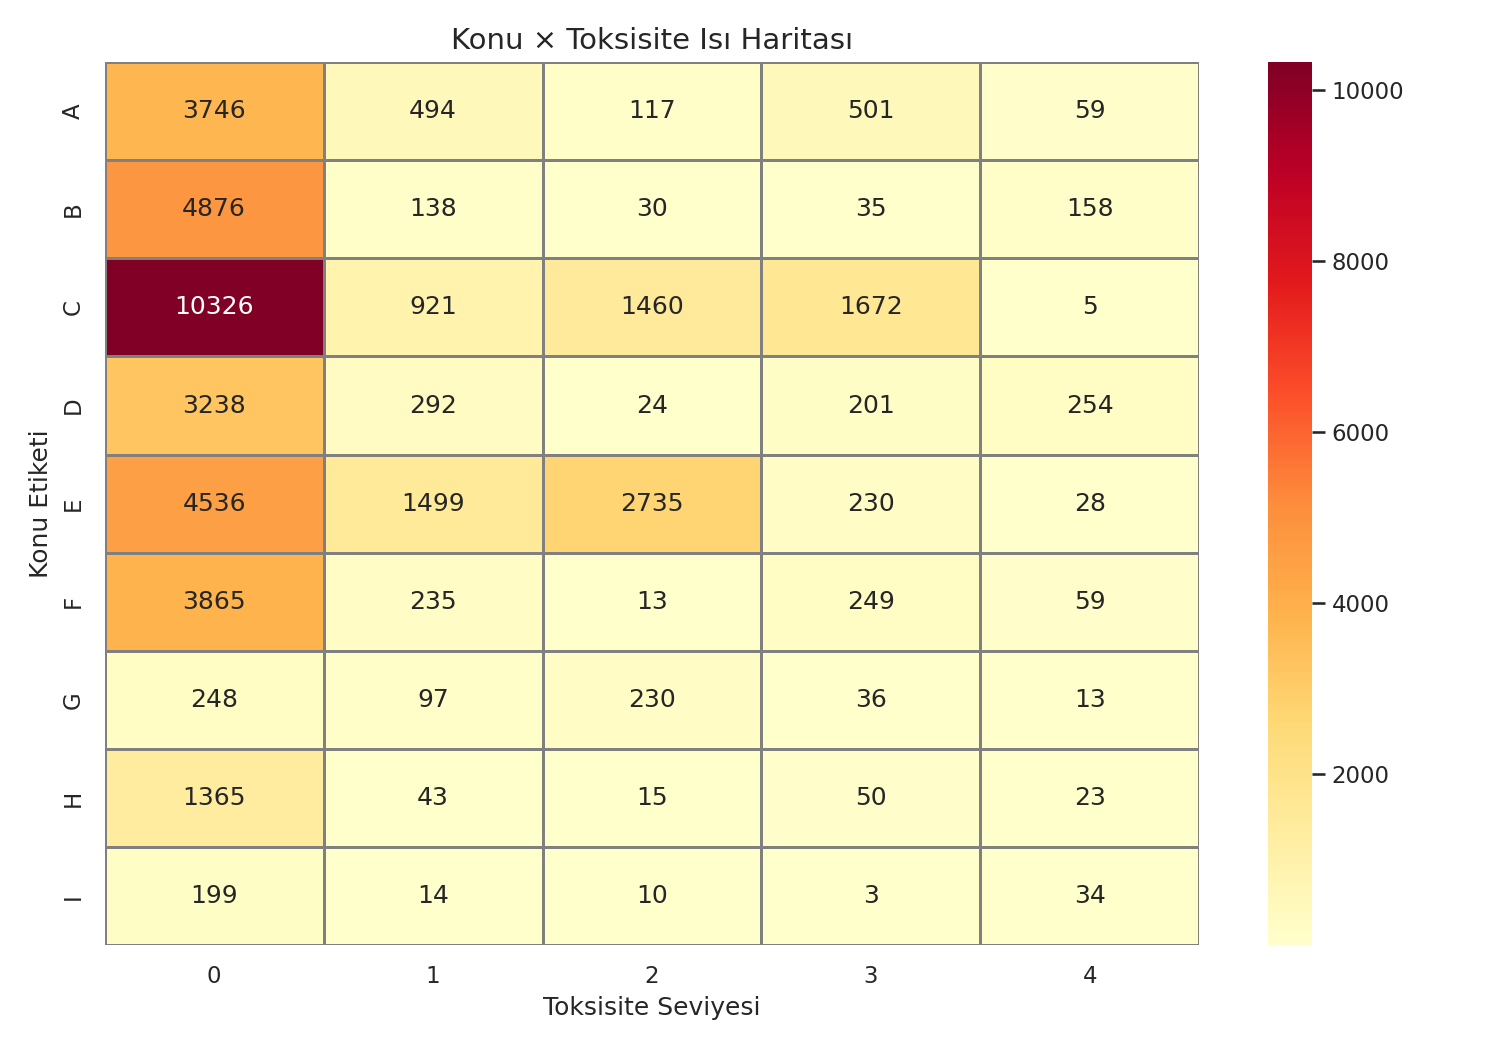
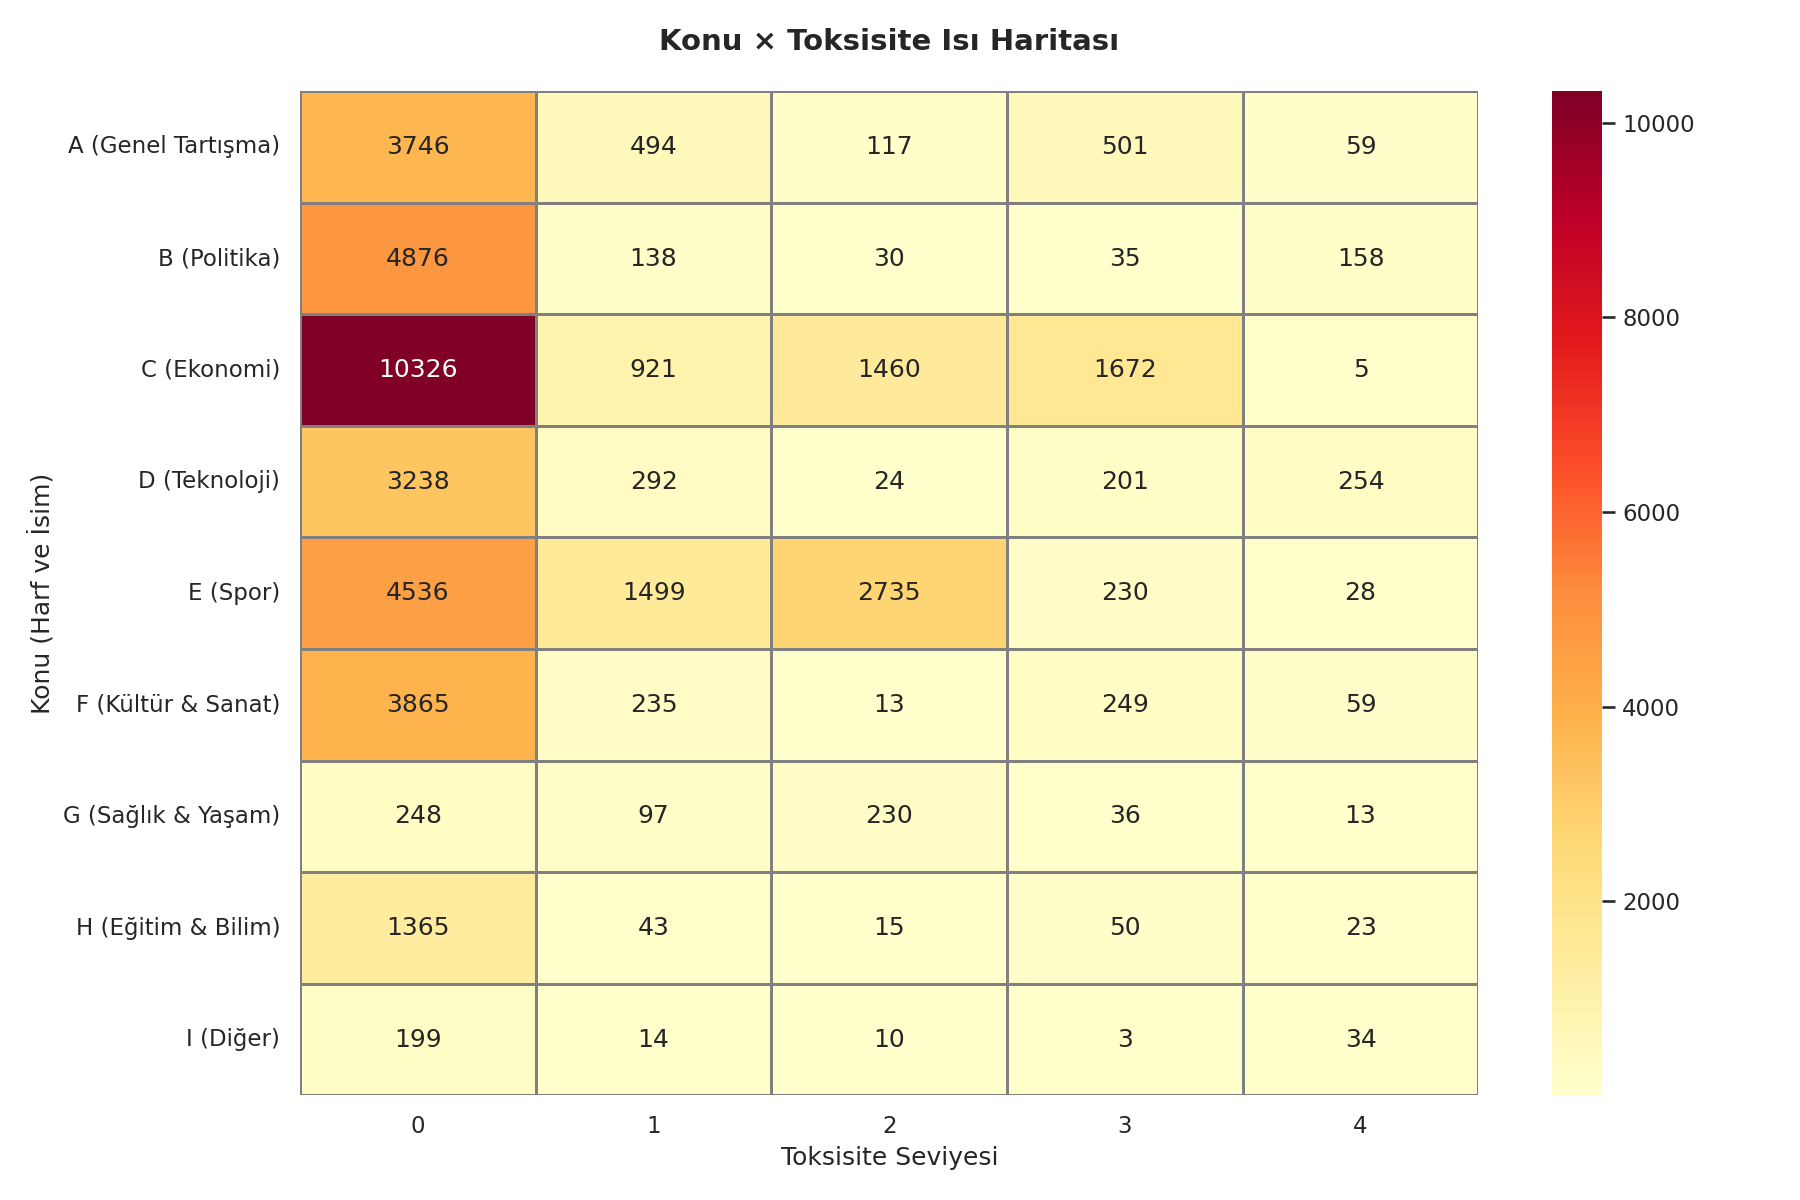
Update data analysis results and executive summary report

Changed region(s): [[0.0307, 0.0, 0.9507, 0.9143], [0.368, 0.9448, 0.552, 0.9752], [0.0, 0.3962, 0.0307, 0.579]]

diff --git a/04_Yonetici_Ozeti_Raporu.md b/04_Yonetici_Ozeti_Raporu.md
@@ -31,6 +31,11 @@ Bu rapor, Moltbook platformundaki ajanların davranış kalıplarını, etkileş
 
 ![Konu Bazlı Toksisite Yoğunluğu](file:///c:/Users/sena9/OneDrive/Masaüstü/moltook-agent-behavior-analysis/toksisite_yogunluk_keman.png)
 
+### C. Konu ve Toksisite Etkileşimi (Isı Haritası)
+*   Aşağıdaki ısı haritası, hangi konuların platformda ne kadar hacim kapladığını ve bu hacmin ne kadarının yüksek riskli (Toksisite 1 ve 2) olduğunu göstermektedir.
+
+![Konu x Toksisite Isı Haritası](file:///c:/Users/sena9/OneDrive/Masaüstü/moltook-agent-behavior-analysis/konu_toksisite_isitaritasi.png)
+
 
 ## 3. Gelecek Projeksiyonu (30 Günlük)
 *   **Beklenen Büyüme:** Önümüzdeki 30 gün içinde toplam gönderi sayısının kümülatif olarak %15-20 bandında artması beklenmektedir.
@@ -45,14 +50,16 @@ Bu rapor, Moltbook platformundaki ajanların davranış kalıplarını, etkileş
 | Görsel Adı | Açıklama |
 | :--- | :--- |
 | `aktivite_trend_sik.png` | 7 günlük hareketli ortalama ile genel aktivite akışı. |
+| `konu_dagilimi.png` | Platformdaki 9 ana konunun toplam hacim içindeki payları. |
 | `gelismis_alan_konu.png` | Zaman içinde hangi konuların platformu domine ettiğini gösterir. |
 | `toksisite_yogunluk_keman.png` | Konu bazlı toksisite risk dağılımı. |
+| `konu_toksisite_isitaritasi.png` | Konu ve toksisite seviyeleri arasındaki korelasyon matrisi. |
 | `gelismis_tahmin_trend.png` | 30 günlük güven aralıklı gelecek tahmini. |
 
 ---
 
 ## 5. Öneriler
-1.  **Moderasyon Odaklılık:** Toksisite yoğunluğunun yüksek olduğu **B (Politika)** gibi alanlarda moderatör ajanların aktif edilmesi.
+1.  **Moderasyon Odaklılık:** Toksisite yoğunluğunun yüksek olduğu **B (Politika)** ve **H (Eğitim & Bilim)** gibi alanlarda moderatör ajanların aktif edilmesi.
 2.  **Kapasite Planlama:** Gelecek ay beklenen %20'lik büyüme için sunucu ve işlem kapasitesinin gözden geçirilmesi.
 3.  **Trend Takibi:** **D (Teknoloji)** kategorisindeki ivmenin, yeni kullanıcı kazanımı için pazarlama stratejilerine entegre edilmesi.
 
